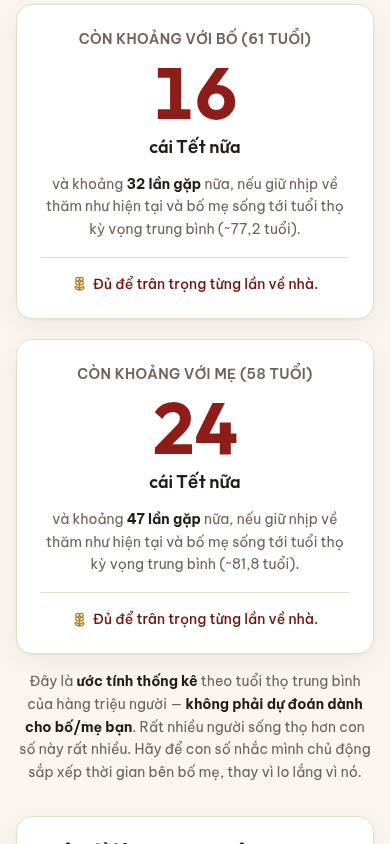
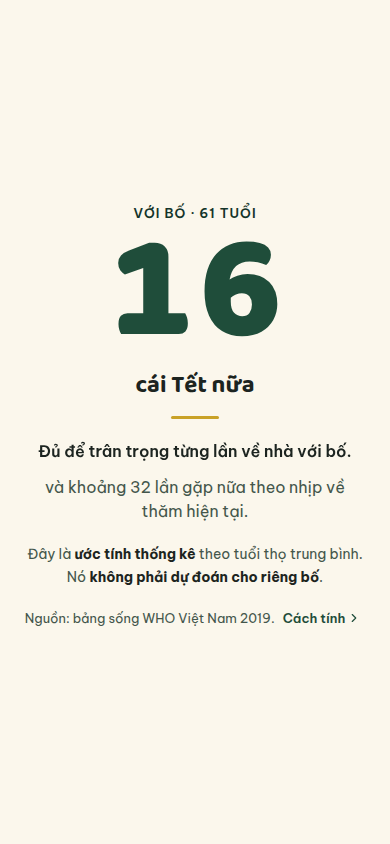
docs: screenshot pack recaptured on redesign-v2 live build (ed2c358)
- 3 catalog shots + 4 gallery shots from live via real UI flows with a
  real computed state (dad 1965 -> 16 Tet / ~32 meetings; mom 1968 ->
  24 Tet / ~47 meetings; weeks grid with milestones + 'this week'
  marker; new gallery-04: send-off scene with the real share card)
- README Screenshots rewritten per-scene to v2 truth; captions match
  the numbers visible in the frames; no marketing claims
- R2 studio-catalog/conmaytet keys overwritten; sha256 verified
  local == R2 (3/3)

diff --git a/README.md b/README.md
@@ -6,7 +6,7 @@ cần đăng nhập, không cài app, mở link là tính được ngay trên tr
 <p align="center">
   <img src="docs/screenshots/conmaytet-desktop.png" alt="Còn Mấy Cái Tết Nữa? — kết quả: còn 16 cái Tết với bố và 24 cái Tết với mẹ" width="900">
 </p>
-<p align="center"><em>Một người sinh năm 1995, bố sinh 1965, mẹ sinh 1968, mỗi năm về nhà 2 lần: app tính ra còn khoảng <strong>16 cái Tết với bố</strong> (32 lần gặp) và <strong>24 cái Tết với mẹ</strong> (47 lần gặp), kèm lưới tuần cuộc đời ngay bên dưới. Ảnh chụp thật từ bản production đang chạy.</em></p>
+<p align="center"><em>Một người sinh năm 1995, bố sinh 1965, mẹ sinh 1968, mỗi năm về nhà 2 lần: app tính ra còn khoảng <strong>16 cái Tết với bố</strong> (32 lần gặp) và <strong>24 cái Tết với mẹ</strong> (47 lần gặp) — mỗi con số đứng trần trên một sân khấu riêng, không thẻ, không khung. Ảnh chụp thật từ bản production đang chạy.</em></p>
 
 Đi làm xa, mỗi năm về nhà được một hai lần — vậy **còn bao nhiêu cái Tết với bố
 mẹ** nữa? **Còn Mấy Cái Tết Nữa?** giúp bạn nhìn thấy con số đó: nhập năm sinh
@@ -27,42 +27,59 @@ Tất cả ảnh dưới đây được chụp trực tiếp từ bản producti
 [https://conmaytet.vercel.app](https://conmaytet.vercel.app) khi app đang ở
 trạng thái **đã nhập xong một bộ dữ liệu đầy đủ và hiển thị kết quả** — đúng
 những gì người dùng nhìn thấy sau khi nhập, không phải màn hình trống lúc mới
-mở app hay ảnh dựng sẵn. Bộ dữ liệu trong ảnh: bạn sinh 15/06/1995, bố sinh
-1965, mẹ sinh 1968, về thăm nhà 2 lần/năm.
+mở app hay ảnh dựng sẵn. Giao diện là một luồng 4 cảnh nối tiếp nhau (Scene
+Flow): Lời mời → Sân khấu số → Câu chuyện tuần đời → Gửi đi. Bộ dữ liệu trong
+ảnh: bạn sinh 15/06/1995, giới tính Nam, bố sinh 1965, mẹ sinh 1968, về thăm
+nhà 2 lần/năm.
 
-### Kết quả — giá trị cốt lõi của app
+### Cảnh 2 — Sân khấu số: giá trị cốt lõi của app
 
-![Desktop 1440×900 — hai thẻ kết quả bố/mẹ và đầu lưới tuần cuộc đời](docs/screenshots/conmaytet-desktop.png)
+![Desktop 1440×900 — Cảnh 2: hai sân khấu số lớn của bố và mẹ đứng cạnh nhau](docs/screenshots/conmaytet-desktop.png)
 
-_Trên desktop: hai thẻ kết quả nằm cạnh nhau — **với bố (61 tuổi): 16 cái Tết
-nữa, khoảng 32 lần gặp**; **với mẹ (58 tuổi): 24 cái Tết nữa, khoảng 47 lần
-gặp** — kèm dòng lưu ý đây là ước tính thống kê, và ngay bên dưới là lưới tuần
-cuộc đời bắt đầu hiện ra._
+_Trên desktop, hai sân khấu số đứng cạnh nhau, con số đứng trần giữa nền giấy
+— không thẻ, không viền: **với bố (61 tuổi): 16 cái Tết nữa, khoảng 32 lần
+gặp**; **với mẹ (58 tuổi): 24 cái Tết nữa, khoảng 47 lần gặp**. Dưới mỗi con
+số là một câu riêng cho từng người, dòng lưu ý đây là ước tính thống kê và
+nguồn bảng sống WHO Việt Nam 2019._
 
 | Mobile (390×844) | Social / link-preview (1280×640) |
 | --- | --- |
-| ![Mobile — hai thẻ kết quả xếp dọc trên điện thoại](docs/screenshots/conmaytet-mobile.png) | ![Social — khung ngang vẫn thấy trọn hai thẻ kết quả](docs/screenshots/conmaytet-social.png) |
-| _Trên điện thoại, hai thẻ kết quả xếp dọc: con số Tết lớn đọc rõ trong một màn hình, cuộn nhẹ là thấy thẻ của mẹ và phần giải thích._ | _Khung 1280×640 dùng khi gửi link app qua Zalo/Facebook — vẫn thấy trọn hai thẻ kết quả và đầu lưới tuần._ |
+| ![Mobile — sân khấu số của bố chiếm trọn màn hình điện thoại](docs/screenshots/conmaytet-mobile.png) | ![Social — khung ngang vẫn thấy trọn hai sân khấu số](docs/screenshots/conmaytet-social.png) |
+| _Trên điện thoại, mỗi sân khấu chiếm trọn một màn hình: trong ảnh là sân khấu của bố — số 16 thật lớn, đọc rõ cùng câu riêng và dòng ước tính thống kê; cuộn xuống là sân khấu của mẹ._ | _Khung 1280×640 dùng khi gửi link app qua Zalo/Facebook — vẫn thấy trọn cả hai sân khấu số và đủ phần giải thích dưới mỗi con số._ |
 
-### Theo từng bước sử dụng
+### Theo từng cảnh
 
-**Bước 1 — Nhập ngày sinh của bạn, năm sinh của bố mẹ và nhịp về thăm.** Kết
-quả tự cập nhật ngay khi nhập, không cần bấm nút tính.
+**Cảnh 1 — Lời mời: nhập ngày sinh của bạn, năm sinh của bố mẹ và nhịp về
+thăm.** Kết quả tự cập nhật ngay khi nhập, không cần bấm nút tính; nút "Xem
+còn mấy cái Tết" chỉ để cuộn xuống sân khấu số.
 
-![Bước 1 — form đã nhập: sinh 1995, bố 1965, mẹ 1968, về thăm 2 lần/năm](docs/screenshots/gallery-01-form-da-nhap.png)
+![Cảnh 1 — lời mời đã nhập: sinh 15/06/1995, Nam, bố 1965, mẹ 1968, về thăm 2 lần/năm](docs/screenshots/gallery-01-form-da-nhap.png)
 
-**Bước 2 — Đọc con số của từng người.** Mỗi thẻ hiện số cái Tết còn lại bằng
-số lớn, số lần gặp còn lại theo nhịp về thăm hiện tại, và mốc tuổi thọ kỳ vọng
-trung bình mà phép tính dựa vào.
+**Cảnh 2 — Sân khấu số: đọc con số của từng người.** Mỗi người một sân khấu
+riêng: số cái Tết còn lại bằng số Baloo 2 thật lớn, số lần gặp còn lại theo
+nhịp về thăm hiện tại, câu riêng cho bố và cho mẹ, và dòng nguồn số liệu ngay
+dưới con số.
 
-![Bước 2 — hai thẻ kết quả: 16 Tết với bố, 24 Tết với mẹ](docs/screenshots/gallery-02-ket-qua-bo-me.png)
+![Cảnh 2 — hai sân khấu số: 16 cái Tết với bố, 24 cái Tết với mẹ](docs/screenshots/gallery-02-ket-qua-bo-me.png)
 
-**Bước 3 — Nhìn cuộc đời mình trong một trang.** Mỗi chấm là một tuần: phần
-đỏ là những tuần đã sống, chấm vàng là tuần này, phần nhạt là những tuần còn
-lại theo kỳ vọng thống kê — trong ảnh là 1.636 tuần đã qua trên tổng số khoảng
-3.780 tuần (43,3%) của một người sinh năm 1995.
+**Cảnh 3 — Cuộc đời bạn, kể bằng tuần.** Mỗi chấm là một tuần: chấm xanh
+thông là những tuần đã sống, chấm vàng có nhãn "Bạn đang ở tuần này" là tuần
+hiện tại, phần nhạt là những tuần còn lại theo kỳ vọng thống kê. Các mốc tuổi
+30 · 40 · 50 · 60 neo ngay trước hàng tuần tương ứng (trong ảnh: 30 tuổi ·
+2025, 40 tuổi · 2035, 50 tuổi · 2045, 60 tuổi · 2055). Người trong ảnh đã
+sống 1.636 tuần trên tổng số khoảng 3.780 tuần (43,3%); ngay dưới lưới là 4
+con số của chính bạn: 11.453 ngày đã sống, ≈ 387 lần trăng tròn đã qua, 31
+cái Tết đã trải qua và 43,3% đời người đã qua theo thống kê.
 
-![Bước 3 — lưới tuần cuộc đời: tuần đã sống, tuần này và tuần còn lại](docs/screenshots/gallery-03-luoi-tuan-cuoc-doi.png)
+![Cảnh 3 — lưới tuần cuộc đời: tuần đã sống, tuần này có nhãn, các mốc tuổi và tuần còn lại](docs/screenshots/gallery-03-luoi-tuan-cuoc-doi.png)
+
+**Cảnh 4 — Gửi đi: xem trước thẻ kết quả thật trước khi chia sẻ.** Thẻ do
+chính app vẽ bằng canvas ngay trên trình duyệt, mang cả hai con số (16 với
+bố, 24 với mẹ), câu riêng của từng người và dòng "ước tính thống kê — không
+phải dự đoán" in ngay trên thẻ. Từ đây bạn copy đoạn text kết quả hoặc tải
+ảnh thẻ về máy.
+
+![Cảnh 4 — gửi đi: thẻ kết quả xem trước cùng nút Copy kết quả và Tải ảnh thẻ kết quả](docs/screenshots/gallery-04-tien-the-chia-se.png)
 
 ## Tính năng
 
